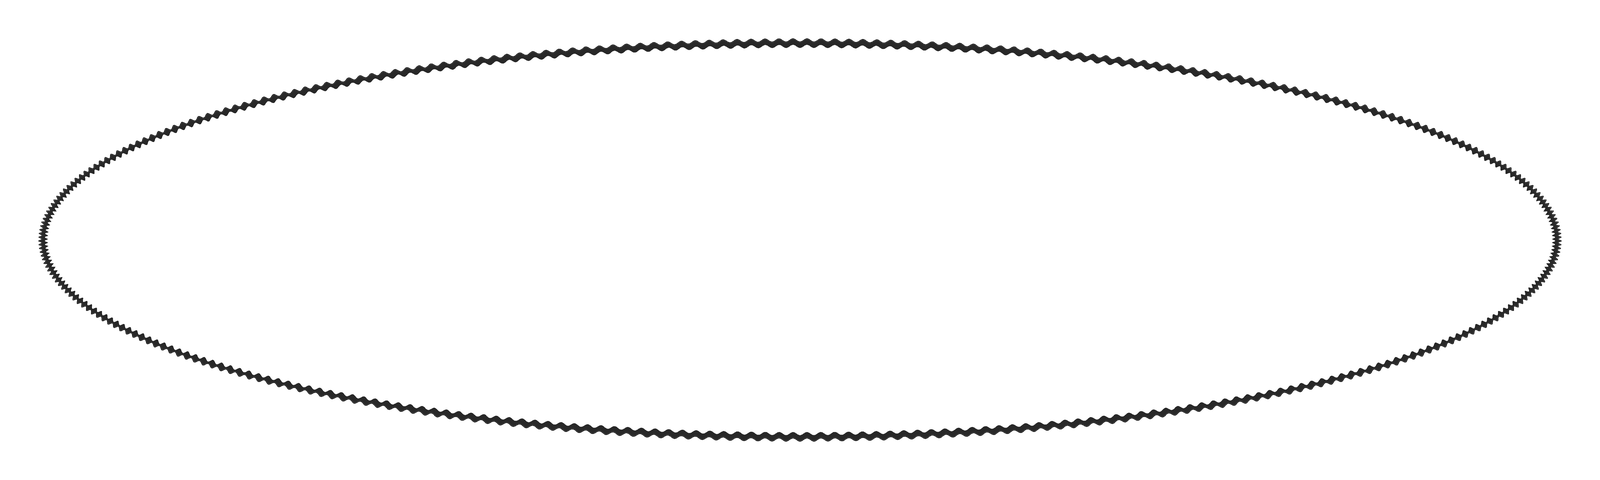
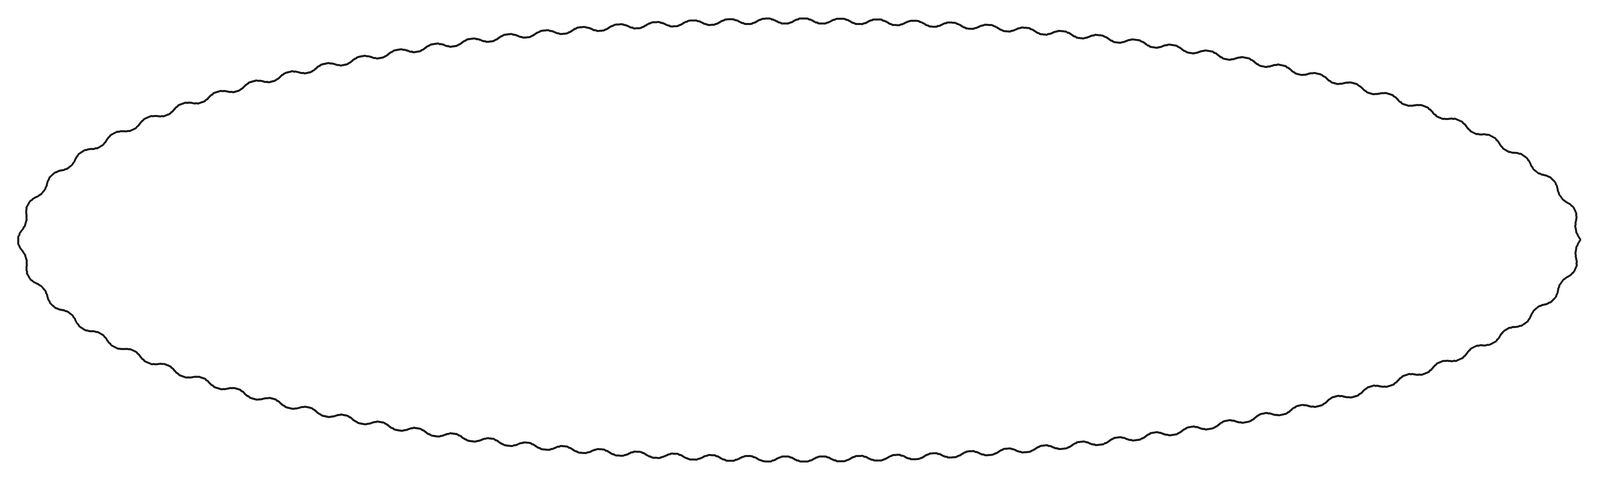
Match tip oval scallops to rectangular frame waveform (flow211).
Rebuild frame-platter from frame-wide's rounded U-lobe pitch (~37px)
instead of denser saw-tooth teeth. Keep oval silhouette and optical
centre; assert tip/frame period parity in tests.

diff --git a/tests/menus.test.js b/tests/menus.test.js
@@ -217,11 +217,39 @@ assert(fs.existsSync(path.join(root, 'images/frame-wide.png')), 'scalloped frame
 assert(fs.existsSync(path.join(root, 'images/frame-platter.png')), 'tip oval platter asset exists');
 var platterBytes = fs.statSync(path.join(root, 'images/frame-platter.png')).size;
 assert(platterBytes > 20000,
-  'tip oval asset carries dense fine-scallop detail (not a tiny smooth double-stroke ellipse)');
+  'tip oval asset carries rounded fine-scallop detail (not a tiny smooth double-stroke ellipse)');
+(function assertTipPlatterMatchesFrameWideScallops() {
+  // Tip oval edge must share frame-wide scallop pitch (rounded U-lobes), not denser saw-teeth.
+  var cp = require('child_process');
+  var py = [
+    'from PIL import Image',
+    'import numpy as np, sys',
+    'root=sys.argv[1]',
+    'def period(path, mode):',
+    '  a=np.array(Image.open(path).convert("RGBA"))',
+    '  w=a.shape[1]',
+    '  m=((a[:,:,3]>40)&(a[:,:,0]<100)) if mode=="ink" else ((a[:,:,0]>180)&(a[:,:,3]>40))',
+    '  ys=[np.where(m[:,x])[0][0] for x in range(w//6,5*w//6) if len(np.where(m[:,x])[0])]',
+    '  ys=np.array(ys,float); t=np.arange(len(ys))',
+    '  r=ys-np.polyval(np.polyfit(t,ys,2),t); r-=r.mean()',
+    '  ac=np.correlate(r,r,mode="full"); ac=ac[len(ac)//2:]; ac/=ac[0]',
+    '  for lag in range(20,80):',
+    '    if ac[lag]>ac[lag-1] and ac[lag]>=ac[lag+1] and ac[lag]>0.25: return lag',
+    '  return None',
+    'pf=period(f"{root}/images/frame-wide.png","ink")',
+    'pp=period(f"{root}/images/frame-platter.png","white")',
+    'assert pf and pp and abs(pf-pp)<=3, (pf,pp)',
+    'print(f"ok {pf} {pp}")'
+  ].join('\n');
+  var out = cp.execFileSync('python3', ['-c', py, root], { encoding: 'utf8' });
+  assert(/ok/.test(out), 'tip platter scallop period matches frame-wide (rounded U-lobes, not denser teeth)');
+})();
 var printJs = fs.readFileSync(path.join(root, 'menus-print.js'), 'utf8');
 assert(printJs.indexOf('EBMenuPrint') !== -1 && printJs.indexOf('scallop') !== -1, 'print builder has scalloped boxes');
-assert(/fine scallop/i.test(printJs),
+assert(/fine scallop|rounded fine scallop/i.test(printJs),
   'print CSS/comments name fine-scallop tip oval (Tips / frame-wide family)');
+assert(/rounded fine scallops|same pitch|NOT dense saw-tooth/i.test(printJs),
+  'print comments encode tip oval waveform match to rect frames (not denser saw-tooth)');
 assert(/border-radius:0/.test(printJs) && !/scallop-platter[\s\S]{0,180}border-radius:50%/.test(printJs),
   'fine-scallop tip oval does not clip bumps with border-radius 50%');
 assert(printJs.indexOf('toRoman') !== -1 && printJs.indexOf('Week of') !== -1, 'print tracker week + Roman numeral');
@@ -760,8 +788,8 @@ assert(page.indexOf('JS already placed the food map') !== -1 &&
   'generate lets Gemini refine Best-fit widths only — not locked shapes or Sharing stacks');
 assert(ingestJs.indexOf('mammoth') !== -1 && ingestJs.indexOf('readDocx') !== -1, 'Word .docx ingest via mammoth');
 assert(page.indexOf('.docx') !== -1 && page.indexOf('wordprocessingml') !== -1, 'upload accepts Word .docx');
-assert(page.indexOf('flow209') !== -1, 'menus page cache-bust is flow209');
-assert(fs.readFileSync(path.join(root, 'index.html'), 'utf8').indexOf('flow209') !== -1, 'hub menus link cache-bust is flow209');
+assert(page.indexOf('flow211') !== -1, 'menus page cache-bust is flow211');
+assert(fs.readFileSync(path.join(root, 'index.html'), 'utf8').indexOf('flow211') !== -1, 'hub menus link cache-bust is flow211');
 (function checkMenusStaffStableEntry() {
   var staffPath = path.join(root, 'menus-staff.html');
   assert(fs.existsSync(staffPath), 'menus-staff.html stable staff entry exists');

diff --git a/menus-print.js b/menus-print.js
@@ -4524,9 +4524,9 @@
       '.promo-date{font-family:var(--sans);font-weight:500;font-size:9.5pt;letter-spacing:.02em;text-transform:none;color:#5a534a}' +
       '.sandwich-promo .note-line{font-weight:500}' +
       '.sandwich-promo .desc{font-weight:300;color:#5a534a}' +
-      /* Tip-only sell oval: ellipse + dense fine scallops (frame-platter.png), same
-         family as Tips / frame-wide — higher-frequency smaller lobes than early
-         scallop platters; NOT big waves, NOT a plain double-stroke. */
+      /* Tip-only sell oval: ellipse + rounded fine scallops (frame-platter.png).
+         Waveform matches rectangular Tips / frame-wide lobes (soft U-curves,
+         same pitch) — NOT dense saw-tooth / pointy teeth, NOT big-lobe waves. */
       /* Tip-only: fine-scallop oval hugs the sell words; text optically centred
          (equal air top/bottom via flex + even pad; prefer one sell line). */
       '.sandwich-tip-only{' +

diff --git a/index.html b/index.html
@@ -604,7 +604,7 @@
       'giftcards-eightbells': 'https://www.eightbellsbolney.com/staff/vouchers',
       // Standalone Teya CSV reader (browser-only). Does not feed paperwork.
       'cardtakings-windmill': 'card-takings.html?venue=windmill',
-      'menus-eightbells': 'menus.html?v=20261010-flow209',
+      'menus-eightbells': 'menus.html?v=20261010-flow211',
       'rooms-windmill': 'https://rooms.windmilllittleworth.com',
       'payroll': 'https://owner.kinfoldinns.co.uk/payroll.html?v=20260901-xero-pull-timeout',
       'staffhub': 'https://script.google.com/macros/s/AKfycbwcE86RmdBYqgYESAjENcMmrBDW4UZjg9NnpSOnYxnSdwdc1IoRmJUgH900qnEp_ov7/exec'

diff --git a/menus.html b/menus.html
@@ -426,9 +426,9 @@
     <div class="menus no-print" id="menuPicker" role="tablist" aria-label="Which menu"></div>
     <div id="editor"></div>
   </main>
-  <script src="menus.js?v=20261010-flow209"></script>
-  <script src="menus-print.js?v=20261010-flow209"></script>
-  <script src="menus-ingest.js?v=20261010-flow209"></script>
+  <script src="menus.js?v=20261010-flow211"></script>
+  <script src="menus-print.js?v=20261010-flow211"></script>
+  <script src="menus-ingest.js?v=20261010-flow211"></script>
   <script>
     if (window.parent !== window) document.documentElement.classList.add('iframed');
 
